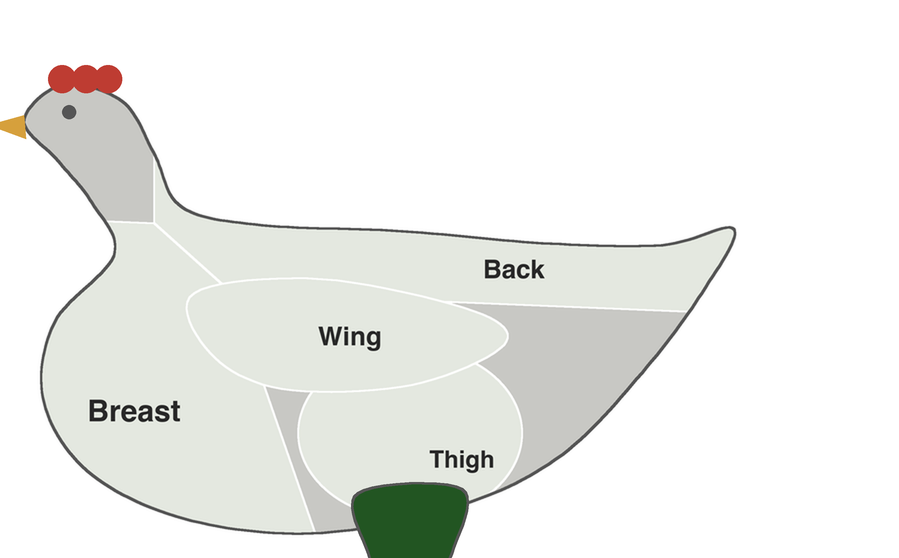
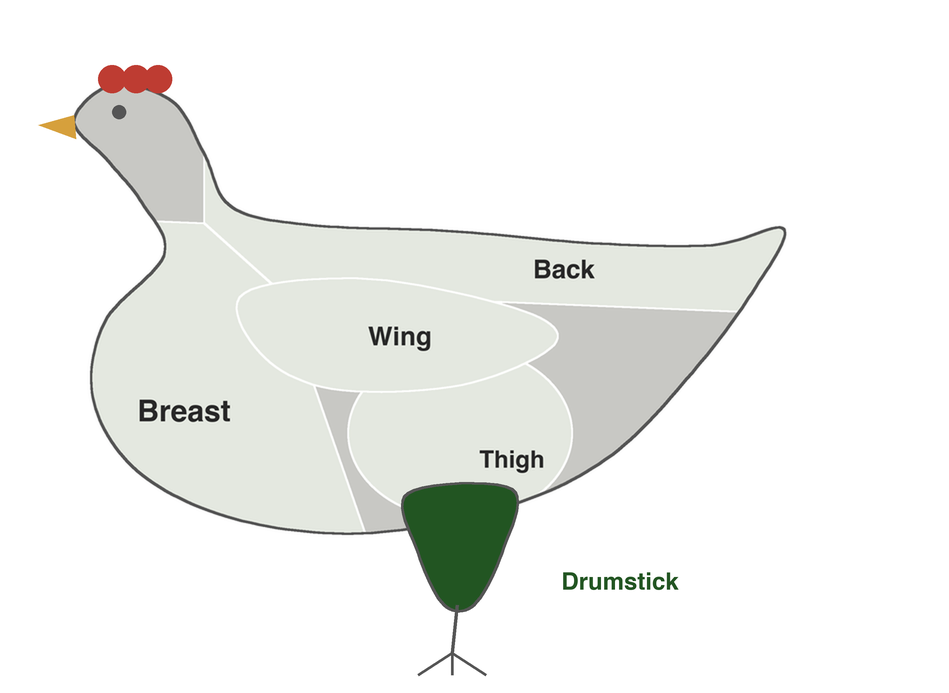
Cut diagrams: chicken drumstick and feet no longer cropped; Quick Lookup hint mentions cuts

diff --git a/lib/screens/home_screen.dart b/lib/screens/home_screen.dart
@@ -423,7 +423,7 @@ class _HomeScreenState extends State<HomeScreen> {
             ),
             const SizedBox(height: 4),
             Text(
-              'EST number, meat brand, or seafood brand — we detect which.',
+              'EST number, brand, or cut of meat — we detect which.',
               style: TextStyle(
                   fontSize: 12.5, color: Colors.white.withValues(alpha: 0.92)),
             ),
